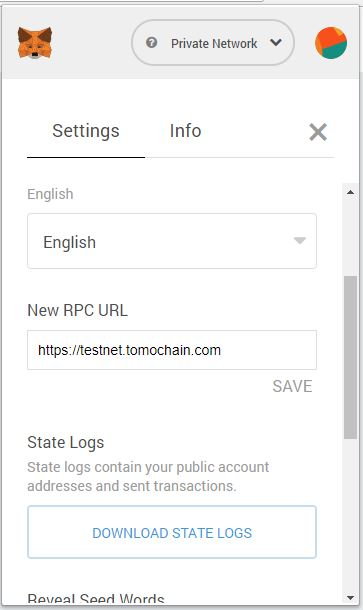
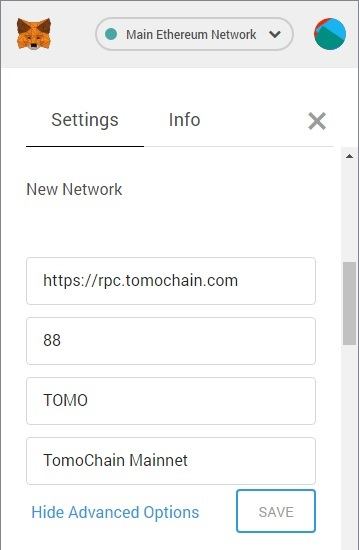
Update get-started/wallet with mainnet info
Update wallets information using Mainnet instead of Testnet. Also using
the new version of Metamask (which allows to set: network name, chainid,
etc.)

diff --git a/docs/get-started/wallet.md b/docs/get-started/wallet.md
@@ -1,72 +1,70 @@
 ## Metamask
 
-TomoChain will guide you how to connect MetaMask to TomoChain Testnet. It is an essential step to study an overview of TomoChain features in term of meeting the crypto trading needs on system.
+TomoChain will guide you how to connect MetaMask to TomoChain Mainnet.
+It is an essential step to study an overview of TomoChain features in term of meeting the crypto trading needs on system.
 
-Get started! You first need to install Extension MetaMask on Chrome or Brave browsers. Once you agree to the Metamask Terms of Use and create an account successfully, follow instructions:
+Get started! You first need to install [MetaMask Extension](https://metamask.io/) on Chrome or Brave browsers.
+Once you agree to the Metamask Terms of Use and create an account successfully, follow instructions:
 
-**Step 1:** Click to MetaMask logo on the browser to open the Extention -> select `Network` -> select `Custom RPC` as shown below:
+**Step 1:** Click MetaMask logo on the browser to open the Extension -> select `Network` -> select `Main Ethereum Network` (by default) as shown below:
 
 ![metamask1](/assets/metamask1.jpg)
 
-**Step 2:** When Setting screen pops up, you enter `https://testnet.tomochain.com` into New RPC URL Texbox then Save.
+**Step 2:** When Settings screen pops up, scroll down to `New Network` and click `Show Advanced Options`.
+Enter the following information, then Save:
+
+-New RPC URL: `https://rpc.tomochain.com`
+-ChainID: `88`
+-Symbol: `TOMO`
+-Nickname: `TomoChain Mainnet`
 
 ![metamask2](/assets/metamask2.jpg)
 
-**Step 3:** You successfully connect to TomoChain Testnet after 2 steps. Next, you use TOMO to pay a Gas fee to implement Smart Contact. To have some TOMO in the testnet, you can enter your wallet address in Faucet site [https://faucet.testnet.tomochain.com/](https://faucet.testnet.tomochain.com/) to request some TOMO.
+Set `Privacy Mode` On, if you want to connect Metamask with your hardware wallet (Trezor, Ledger Nano S).
 
-So, you accomplish connecting the MetaMask to TomoChain (testnet). From now on, you can make transactions and develop Dapp as well as Smart Contract as you wish.
+![metamask3](/assets/metamask3.jpg)
+
+**Step 3:** You are successfully connected to TomoChain Mainnet.
 
 ## MyEtherWallet
 
-**Step 2:** From <a href="https://myetherwallet.com" target="_blank">MyEtherWallet</a> homepage, at top right corner, select TomoChain Testnet
+**Step 1:** From <a href="https://myetherwallet.com" target="_blank">MyEtherWallet</a> homepage, at top right corner, select `Add Custom Network / Node`
 
-![mew1](/assets/mew1.png)
+![mew1](/assets/mew1.jpg)
 
-**Step 3:** Import/create a wallet, view the balance and make a transaction to send TOMO to another address.
+**Step 2:** Setup your Custom Node with the following information: Node name, Url, Chain ID and click `Save & Use Custom Node` (as shown below).
 
-![mew2](/assets/mew2.png)
+-Node Name: `TomoChain Mainnet`
+-URL: `https://rpc.tomochain.com`
+-Port: `443`
+-ChainID: `88`
 
-All transactions you make will be recorded in TomoChain and transparently viewed on TomoScan.
+![mew2](/assets/mew2.jpg)
 
-![mew3](/assets/mew3.png)
+**Step 3:** Click `Save & Use Custom Node`. This should immediately connect or an error message will display.
 
-You are able to use hardware wallets (Trezor, Ledger Nano S) in MyEtherWallet to connect TomoChain Testnet.
+![mew3](/assets/mew3.jpg)
+
+## TrustWallet
+
+**Step 1:** Open [Trust Wallet](https://trustwallet.com/assets/tomochain) then go to Settings > Wallets > and tap on the plus sign in the top right corner to import a new wallet.
+
+![trustwallet1](/assets/trustwallet1.jpg)
+
+**Step 2:** Tap on `Import Wallet` and select TomoChain on the next screen
+
+![trustwallet2](/assets/trustwallet2.jpg)
+
+**Step 3:** Tap on `Private Key` and enter your Private key.
+Tap one last time on `Import` to complete the recovery.
+
+![trustwallet3](/assets/trustwallet3.jpg)
 
 ## TomoWallet
 
-TomoWallet is now available at [https://wallet.testnet.tomochain.com](https://wallet.testnet.tomochain.com). You can create a wallet, get some TOMO on the testnet and transfer/receive TOMO back and forth.
+Download TomoWallet from [Apple Store](https://itunes.apple.com/vn/app/tomo-wallet/id1436476145) or [Google Play](https://play.google.com/store/apps/details?id=com.tomochain.wallet).
+You can create a new wallet, import an existing wallet, vote for Masternodes and transfer/receive TOMO back and forth.
 
-*Note: At the moment, TomoWallet only works on TomoChain Testnet. So all TOMO you have in TomoWallet is only for testing purpose.*
-
-### Create a new wallet
-On the first page, click `CREATE NEW WALLET` button. TomoWallet will automatically create a new wallet and show up the address, qr code and the balance in your home page.
+*Note: Under Settings you can Choose Network: TomoChain (Mainnet) or TomoChain DevNet (Testnet).*
 
 ![tomowallet1](/assets/tomowallet1.jpg)
-
-### Earn TOMO
-- On the homepage, click `Earn TOMO to test` on the bottom left corner.
-- Click `REQUEST` button and wait a couple of seconds to get some TOMO.
-
-![tomowallet2](/assets/tomowallet2.jpg)
-
-
-### Transfer TOMO
-- On left menu, click `Tranfer` to go to `Tranfer TOMO` page.
-
-![tomowallet3](/assets/tomowallet3.jpg)
-
-- Enter a valid recipient address and amount TOMO you want to send and click `SEND`.
-
-- After few seconds, your transaction will be presented at `Transactions` page as the below:
-
-![tomowallet4](/assets/tomowallet4.jpg)
-
-### Delete a wallet
-In case, you want to access other wallets, then delete the current wallet. Make sure you backup `Private Key` and `Recovery Phrases` so you can import your wallet again.
-
-To delete your wallet, go to `details` page, and click `DELETE THIS WALLET` button.
-
-### Import your wallet
-- On the first page, click `IMPORT YOUR WALLET`.
-- Enter our `Private Key` or `Recovery Phrases`
-- Click `IMPORT` button.
